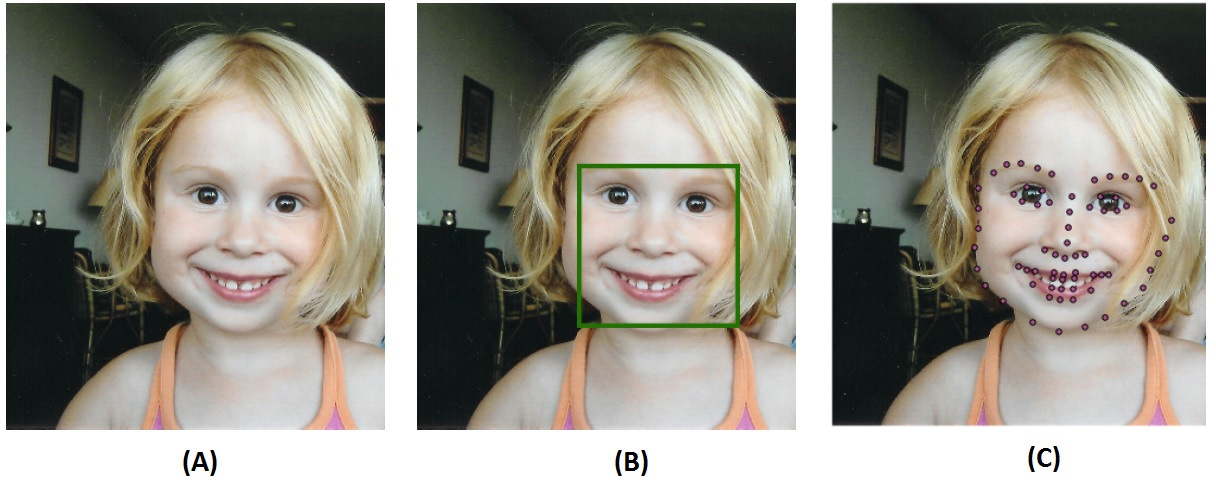
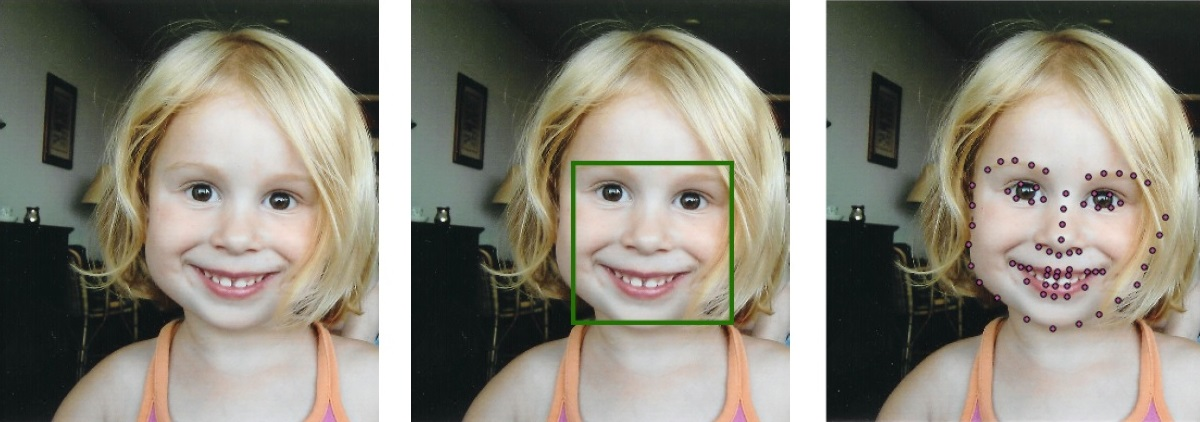
Refine and tweak text and figures in literature review

diff --git a/Content/texts/literature-games.tex b/Content/texts/literature-games.tex
@@ -3,24 +3,24 @@
 
 Research about games is a broad topic that involves different disciplines and definitions. In the context of this thesis, a game is defined as a system in which players engage in an artificial conflict, defined by rules, that results in a goal \parencite{salen2004rules}. An artificial conflict is a set of challenges that the player must overcome towards the game goal, e.g. sort elements within a time constraint.
 
-\textcite{schell2014art} mentions that, from a game design perspective, the difficulty level of such challenges affects the emotional state of players, e.g. moments of boredom or anxiety/stress. Every time a reward is given to the player, which usually is a tool to increase the player's power, the game's challenge level is lowered because the player becomes more skilled. After a period, such increase in the player's skill level causes the game to be boring because the challenges are now easier to beat. At that point, the difficulty level is again increased by the game, raising the challenging levels for the player once more, causing anxiety. The anxiety and stress period lasts until the player is rewarded again, when the newly obtained power will eventually lower the challenge levels again (resulting in boredom), causing the cycle to repeat itself.
-
-\textcite{chen2007flow} used the theory of flow or the ``theory of optimal experience'', originally estaslished by \textcite{csikszentmihalyi1991flow}, to describe how player experience was in large part depending on the relationship between a game's challenge and its player's level of skill. A challenge beyond the player's skill to address and overcome it causes anxiety, while the opposite results in disinterest, leading to boredom \parencite{chen2007flow}. An ideal challenge/skill balance in a repeating cycle of increasing challenge followed by a reward keeps the player in an optimal experience and concentration, i.e. flow zone, as illustrated by Figure \ref{fig:flow-schell}.
-
 \begin{figure}[h!]
     \centering
     \includegraphics[scale=0.8]{Content/figures/flow-schell.png}
-    \caption{Repeating cycle of increasing challenge followed by a reward, keeping the player in the flow zone. \parencite{schell2014art}}
+    \caption{Repeating cycle of increasing challenge followed by a reward, keeping the player in the flow zone. Reproduced from \textcite{schell2014art}.}
     \label{fig:flow-schell}
 \end{figure}
 
- The following sections describe in more detail the theoretical foundation of emotions, connecting them to the context of games.
+\textcite{schell2014art} mentions that, from a game design perspective, the difficulty level of such challenges affects the emotional state of players, e.g. moments of boredom or anxiety/stress. Every time a reward is given to the player, which usually is a tool to increase the player's power, the game's challenge level is lowered because the player becomes more skilled. After a period, such increase in the player's skill level causes the game to be boring because the challenges are now easier to beat. At that point, the difficulty level is again increased by the game, raising the challenging levels for the player once more, causing anxiety. The anxiety and stress period lasts until the player is rewarded again, when the newly obtained power will eventually lower the challenge levels again (resulting in boredom), causing the cycle to repeat itself.
+
+\textcite{chen2007flow} used the theory of flow or the ``theory of optimal experience'', originally established by Mihaly Csikszentmihalyi, to describe how player experience was in large part depending on the relationship between a game's challenge and its player's level of skill. A challenge beyond the player's skill to address and overcome it causes anxiety, while the opposite results in disinterest, leading to boredom \parencite{chen2007flow}. An ideal challenge/skill balance in a repeating cycle of increasing challenge followed by a reward keeps the player in an optimal experience and concentration, i.e. flow zone, as illustrated by Figure \ref{fig:flow-schell}.
+
+The following sections describe in more detail the theoretical foundation of emotions, connecting them to the context of games.
 
 %%%%%%%%%%%%%%%%%%%%%%%%%%%%%%%%%%%%%%%%%%%%%%%%%%%%%%%%%%%%%%%%%%%%%%%%%%%%%%%%%%%%%%%%%%%%%%%%%%%%%%%
 \section{Emotions theory}
 %%%%%%%%%%%%%%%%%%%%%%%%%%%%%%%%%%%%%%%%%%%%%%%%%%%%%%%%%%%%%%%%%%%%%%%%%%%%%%%%%%%%%%%%%%%%%%%%%%%%%%%
 
-In the field of games research, one of the most mentioned theories regarding emotions is the theory of flow. It has been used as the foundation for several concepts, including engagement and immersion \parencite{brown2004grounded}, sense of presence \parencite{weibel2011immersion} and applicability in game design \parencite{sweetser2005gameflow, chen2007flow, cruz2017player}. Flow was originally defined as a phenonmenon in which a person experiences a subjective state characterized by an instense level of attention during the execution of an intrinsically motivated activity \parencite{csikszentmihalyi1991flow}. As previously mentioned, an ideal challenge/skill balance in a game leads players to an optimal experience and concentration state (e.g. flow), so flow constructs are of interest to the games community. Such peculiar state of flow, however, is not limited to activities involving games, it can be experienced in a variety of other activities, e.g. dancing and climbing. The connection of the theory of flow to contexts other than games is outside the scope of this thesis.
+In the field of games research, one of the most mentioned theories regarding emotions is the theory of flow. It has been used as the foundation for several concepts, including engagement and immersion \parencite{brown2004grounded}, sense of presence \parencite{weibel2011immersion} and applicability in game design \parencite{sweetser2005gameflow, chen2007flow, cruz2017player}. Flow was originally defined as a phenomenon in which a person experiences a subjective state characterized by an intense level of attention during the execution of an intrinsically motivated activity \parencite{nakamura2014concept}. As previously mentioned, an ideal challenge/skill balance in a game leads players to an optimal experience and concentration state (e.g. flow), so flow constructs are of interest to the games community. Such peculiar state of flow, however, is not limited to activities involving games, it can be experienced in a variety of other activities, e.g. dancing and climbing. The connection of the theory of flow to contexts other than games is outside the scope of this thesis.
 
 Further research \parencite{nakamura2014concept} refined the original definition of the flow state, culminating in the eight channel model of flow, illustrated in Figure \ref{fig:flow-eight}. Such model better describes the emotional state of users according to the challenge/skill balance in relation to the subject mean, since it is less coarse than the original flow model. In the eight channel model of flow, for instance, a person performing a low skill and low challenging task experiences apathy, while in the original model the classification would indicate a flow state. Emotional states as stress and boredom can be described as a function of the current player's skill level and the level of challenge he/she is facing.
 
@@ -31,12 +31,12 @@ Further research \parencite{nakamura2014concept} refined the original definition
     \label{fig:flow-eight}
 \end{figure}
 
-Another model commonly mentioned in the literature are the basic emotions proposed by \textcite{ekman1971constants}. Constructed from an experiment involving cultural differencies, it states that particular facial muscular patterns and discrete emotions are universal. The six emotions mentioned in the theory are happiness, surprise, sadness, fear, anger and disgust, which are strictly basic emotion models of affective state. A contrary definition is presented by \textcite{russell1978evidence}, who defined another model of emotions named Circumplex Model of Affect (CMA). Commonly referred to as Russell's Arousal-Valence (AV) space, the model is contrary to strictly basic emotion models of affective state, where each emotion emerge from independent neural systems \parencite{posner2005circumplex}. The model proposes a dimensional approach where all affective states arise from the activation of two fundamental neurophysiological systems: arousal (or alertness) and valence (a pleasure–displeasure continuum).
+Another model commonly mentioned in the literature are the basic emotions proposed by \textcite{ekman1971constants}. Constructed from an experiment involving cultural differences, it states that particular facial muscular patterns and discrete emotions are universal. The six emotions mentioned in the theory are happiness, surprise, sadness, fear, anger and disgust, which are strictly basic emotion models of affective state. A contrary definition is presented by \textcite{russell1978evidence}, who defined another model of emotions named Circumplex Model of Affect (CMA). Commonly referred to as Russell's Arousal-Valence (AV) space, the model is contrary to strictly basic emotion models of affective state, where each emotion emerge from independent neural systems \parencite{posner2005circumplex}. The model proposes a dimensional approach where all affective states arise from the activation of two fundamental neurophysiological systems: arousal (or alertness) and valence (a pleasure–displeasure continuum).
 
 \begin{figure}[h!]
     \centering
     \includegraphics[scale=0.5]{Content/figures/russell-av.png}
-    \caption{Representation of the circumplex model of affect \parencite{posner2005circumplex}. Horizontal axis represents the valence dimension and the vertical axis represents the arousal or activation dimension.}
+    \caption{Representation of the Circumplex Model of Affect by \textcite{posner2005circumplex}. Horizontal axis represents the valence dimension and the vertical axis represents the arousal or activation dimension.}
     \label{fig:av-model}
 \end{figure}
 
@@ -49,7 +49,7 @@ Figure \ref{fig:av-model} illustrates the AV space. The horizontal axis represen
 As previously mentioned, the theory of flow is significantly used to explain emotional states and concepts in the field of games research. The definition of flow, however, requires a more sophisticated interpretation, as investigated by further research. %As previously mentioned, from a game design perspective, for instance, Schell \parencite{schell2014art} mentions that a progression of the player in the flow zone is desired, however it should not be a ``straight line'', but more of a cycle alternating among emotional states as stress, enjoyment and boredom.
 Different elements are also connected to flow, such as engagement, immersion and sense of presence.
 
-Immersion, in the concept defined by \textcite{brown2004grounded}, refers to the degree of involvement of players with a computer game. In that light, the authors theorize that a player overcomes barriers that limit his/her degree of involvement in immersion. After each barrier is broken, the sense of immersion deepens. The first barrier, for instance, is named engagement and it refers to the player willingness to invest attention and energy to learn how to play the game. The concept of flow, as defined by \textcite{csikszentmihalyi1991flow}, is an extreme state, which is only achieved when the player has overcame all previously mentioned barriers and is in a ``total immersion'' state. Such condition is rare to happen since it requires the highest level of attention from the player. As a consequence, engagement is more plausible and common during gaming experiences than flow.
+Immersion, in the concept defined by \textcite{brown2004grounded}, refers to the degree of involvement of players with a computer game. In that light, the authors theorize that a player overcomes barriers that limit his/her degree of involvement in immersion. After each barrier is broken, the sense of immersion deepens. The first barrier, for instance, is named engagement and it refers to the player willingness to invest attention and energy to learn how to play the game. The concept of flow, as defined by \textcite{nakamura2014concept}, is an extreme state, which is only achieved when the player has overcame all previously mentioned barriers and is in a ``total immersion'' state. Such condition is rare to happen since it requires the highest level of attention from the player. As a consequence, engagement is more plausible and common during gaming experiences than flow.
 
 The existence of several works \parencite{boyle2012engagement} related to understanding and defining what engagement and immersion are demonstrates the interest of researchers to broaden the view beyond flow alone. Presence, for instance, which describes the player's feeling of actually being in the game, is reported as an important aspect of engagement and immersion \parencite{weibel2011immersion}. Studies connected to training simulation \parencite{engstrom2016impact}, for instance, also indicate that contextualization (increasing the sense of presence) might affect immersion positively. Additionally to the intentions of understanding and defining engagement and immersion, studies also try to measure them. The majority of the approaches used for that are based on questionnaires, which are by nature subjectively answered by players. Additionally that approach usually breaks any sense of presence of the player since it requires a shift in attention away from the game, hence breaking or affecting the level of engagement/immersion as well.
 
@@ -63,22 +63,22 @@ Quantitative approaches have also been investigated to measure engagement, such 
 
 Questionnaires are a common tool used for the assessment of emotional states of users during experiments involving games and emotions. Different formats of questionnaires are found in the literature. The simplest approach are ad-hoc questionnaires, which contains a set of questions designed by the researcher for a particular experiment. A common type of emotion scale in such approach are Likert scales related to an emotional state, e.g. stress level.
 
-Another instrument for assessment of emotions is the Self-Assessment Manikin (SAM) \parencite{morris1995observations}, which is an efficient cross-cultural measurement of emotional response regarding pleasure, arousal and dominance. Figure \ref{fig:sam} illustrates the SAM mechanism. SAM employes a nonverbal, graphic depiction of three affective dimensions. In the top row of the questionnaire the user can express the level of pleasure, ranging from a figure with a smile to a figure with an unhappy face. The middle row presents figures ranging from an agitated (high arousal) state to a relaxed, sleepy state. Finally the bottom row represents the level of dominance (control) of the user in the situation at hand.
+Another instrument for assessment of emotions is the Self-Assessment Manikin (SAM) \parencite{morris1995observations}, which is an efficient cross-cultural measurement of emotional response regarding pleasure, arousal and dominance. Figure \ref{fig:sam} illustrates the SAM mechanism. SAM employs a nonverbal, graphic depiction of three affective dimensions. In the top row of the questionnaire the user can express the level of pleasure, ranging from a figure with a smile to a figure with an unhappy face. The middle row presents figures ranging from an agitated (high arousal) state to a relaxed, sleepy state. Finally the bottom row represents the level of dominance (control) of the user in the situation at hand.
 
 \begin{figure}[h]
     \centering
-    \includegraphics[width=0.7\textwidth]{Content/figures/SAM.png}
-    \caption{Self-Assessment Manikin (SAM). Reproduced from \textcite{morris1995observations}.}
+    \includegraphics[width=0.8\textwidth]{Content/figures/SAM.png}
+    \caption{Visual representation of the Self-Assessment Manikin. Reproduced from \textcite{morris1995observations}.}
     \label{fig:sam}
 \end{figure}
 
-A similar approach is the Affective Slider (AS) \parencite{betella2016affective}, a digital self-reporting tool composed of two slider controls for assessment of pleasure and arousal. Figure \ref{fig:as} illustrates the AS self-assessment mechanisms. AS also employes a nonverbal, graphic depiction of the emotional state of the user, however the focus is on arousal and valence. A user can adjust the sliders to show his/her level of arousal (top slider) and valence (bottom slider).
+A similar approach is the Affective Slider (AS) \parencite{betella2016affective}, a digital self-reporting tool composed of two slider controls for assessment of pleasure and arousal. Figure \ref{fig:as} illustrates the AS self-assessment mechanisms. AS also employs a nonverbal, graphic depiction of the emotional state of the user, however the focus is on arousal and valence. A user can adjust the sliders to show his/her level of arousal (top slider) and valence (bottom slider).
 
 \begin{figure}[h]
     \centering
     \includegraphics[width=0.7\textwidth]{Content/figures/AS.png}
-    \caption{Affective Slider (AS). Reproduced from \textcite{betella2016affective}.}
+    \caption{Visual representation of the Affective Slider. Reproduced from \textcite{betella2016affective}.}
     \label{fig:as}
 \end{figure}
 
-The selection of an emotion assessment instrument is connected to the research context. Both SAM and AS, for instance, are established and proven emotion measurement instruments, which would strengthen the theoretical foundations of the emotion measurement process. As a downside, however, they require the researcher to instruct users on how to properly answer the questionaire.
+The selection of an emotion assessment instrument is connected to the research context. Both SAM and AS, for instance, are established and proven emotion measurement instruments, which would strengthen the theoretical foundations of the emotion measurement process. As a downside, however, they require the researcher to instruct users on how to properly answer the questionnaire.

diff --git a/Content/texts/literature-face.tex b/Content/texts/literature-face.tex
@@ -10,7 +10,7 @@ While previous work explored the use of manual or automated facial analysis as a
 \textcite{giannakakis2017stress} present a literature review focused on facial elements with value for detection of anxiety and stress, including the involvement of eyes (pupil size variations, gaze distribution, blinking rate), mouth (lips deformation, mouth activity) and head (head movement and velocity). Table \ref{table:stress-facial-features} lists all identified facial elements.
 
 \begin{table}[h]
-\caption{Categorization of facial elements connected with stress and anxiety \parencite{giannakakis2017stress}}
+\caption{Categorization of facial elements connected with stress and anxiety according to \textcite{giannakakis2017stress}}
 \label{table:stress-facial-features}
 \begin{tabular}{lll}%
 \toprule%
@@ -18,7 +18,7 @@ While previous work explored the use of manual or automated facial analysis as a
 \midrule
 Head movement & Blink rate & Mouth shape \\
 Skin color & Eyelid response & Lip deformation  \\
-Heart rate (facial PPG) & Eye apperture & Lip corner puller \\
+Heart rate (facial PPG) & Eye aperture & Lip corner puller \\
 & Eyebrow movements & Lip corner depressor \\
 & & Lip pressor \\
 \midrule
@@ -31,9 +31,9 @@ Gaze direction & &\\
 \end{tabular}%
 \end{table}
 
-There are indications that blinking increases with emotional arousal, including stress and anxiety levels \parencite{dinges2005optical}. Gaze direction, gaze congruency (agreement between eye and head orientation) and the size of the gaze-cuing effect (facilitation of reation time towards visual clues) are also influenced by the level of anxiety or stress \parencite{staab2014influence}. Similarly mouth activity is influenced by conditions of stress, particularly lip movement \parencite{dinges2005optical} and asymmetric lip deformation \parencite{metaxas2004image}. Finally the frequency of mouth openenings has been measured as inversely proportional to the stress level under high cognitive load \parencite{liao2005decision}.
+There are indications that blinking increases with emotional arousal, including stress and anxiety levels \parencite{dinges2005optical}. Gaze direction, gaze congruency (agreement between eye and head orientation) and the size of the gaze-cuing effect (facilitation of reaction time towards visual clues) are also influenced by the level of anxiety or stress \parencite{staab2014influence}. Similarly mouth activity is influenced by conditions of stress, particularly lip movement \parencite{dinges2005optical} and asymmetric lip deformation \parencite{metaxas2004image}. Finally the frequency of mouth openings has been measured as inversely proportional to the stress level under high cognitive load \parencite{liao2005decision}.
 
-Different approaches have been used to connect facial analysis to emotional states of users. Initiatives include manual or automated face detection, use of machine learning models to map facial features to emotions and so on. The following sections present in more detail works related to face detection, including the approch used for analysis and connection to emotional states.
+Different approaches have been used to connect facial analysis to emotional states of users. Initiatives include manual or automated face detection, use of machine learning models to map facial features to emotions and so on. The following sections present in more detail works related to face detection, including the approach used for analysis and connection to emotional states.
 
 %%%%%%%%%%%%%%%%%%%%%%%%%%%%%%%%%%%%%%%%%%%%%%%%%%%%%%%%%%%%%%%%%%%%%%%%%%%%%%%%%%%%%%%%%%%%%%%%%%%%%%%
 \section{Facial analysis based on sensors}
@@ -43,7 +43,7 @@ The analysis of facial behavior commonly relies on data obtained from physical s
 
 \begin{figure}
 \centering
-\includegraphics[width=1.0\textwidth]{Content/figures/face-muscles.jpg}
+\includegraphics[width=0.7\textwidth]{Content/figures/face-muscles.jpg}
 \caption{Facial muscles. (a) Corrugator supercilii. (b) Orbicularis oculi. (c) Zygomaticus minor. (d) Zygomaticus major. Adapted from ``Sobotta's Atlas and Text-book of Human Anatomy", by Dr. Johannes Sobotta (Illustration: K. Hajek and A. Schmitson), 1909. In the public domain \parencite{sobotta1909wikimedia}.}
 \label{fig:face-muscles}
 \end{figure}
@@ -63,7 +63,7 @@ Computer vision systems usually rely on image processing, artificial intelligenc
 \begin{figure}[h]
     \centering
     \includegraphics[width=\linewidth]{Content/figures/face_alignment.jpg}
-    \caption{Example of face alignment. (A) Input image. (B) Detected face. (C) Aligned face.}
+    \caption{Example of face alignment. From left to right: input image, detected face, and aligned face.}
     \label{fig:alignment}
 \end{figure}
 
@@ -73,32 +73,35 @@ Many methods have been proposed and a literature review shows that two basic app
 
 \subsection{Constrained Local Model}
 
-The Constrained Local Model (CLM) approach consists of locating a set of points on a target image, then applying a constrain to them. The constrain is usually based on a statistical shape model, which is obtained via training in a set of images featuring manually inserted landmarks. Since the shape model is statistical, the position of the points (landmarks) that it describes will always resemble a face, so proportions of lines and/or the distance among points will not be so different from a human face (at least not different from the ones found in the training set). Figure \ref{fig:clm-model-variation} illustrates the configuration of the shape model with different variations.
+The Constrained Local Model (CLM) approach consists of locating a set of points on a target image, then applying a constrain to them. The constrain is usually based on a statistical shape model, which is obtained via training in a set of images featuring manually inserted landmarks. Since the shape model is statistical, the position of the points (landmarks) that it describes will always resemble a face, so proportions of lines and/or the distance among points will not be so different from a human face (at least not different from the ones found in the training set). Figure \ref{fig:clm-models}(a) illustrates the configuration of the shape model with different variations.
 
 \begin{figure}[h]
-    \centering
-    \includegraphics[width=0.5\linewidth]{Content/figures/clm-model-variation.jpg}
-    \caption{Configuration of the shape models with different variations \parencite{yu2010facial}.}
+\centering
+  \begin{subfigure}[b]{0.5\textwidth}
+    \includegraphics[width=0.95\textwidth]{Content/figures/clm-model-variation.jpg}
+    \caption{}
     \label{fig:clm-model-variation}
+  \end{subfigure}%
+  \begin{subfigure}[b]{0.5\textwidth}
+    \centering
+    \includegraphics[width=0.95\textwidth]{Content/figures/clm-patches.jpg}
+    \caption{}
+    \label{fig:clm-patches}
+  \end{subfigure}
+  \caption{Shape models of CLM. (a) Configuration of the shape models with different variations. (b) Shape models and their respective entries in the texture model. Reproduced from \textcite{yu2010facial}.}
+  \label{fig:clm-models}
 \end{figure}
 
-Additionally to the shape model, there is a texture model that contains a set of patches (images) extracted from the training images by selecting the areas around the inserted landmarks. Those patches are used to guide the search procedure in the alignment process, which allows the technique to correctly identify the right model to properly align the face being analyzed. Figure \ref{fig:clm-patches} shows different shape models and their respective entries in the texture model.
+Additionally to the shape model, there is a texture model that contains a set of patches (images) extracted from the training images by selecting the areas around the inserted landmarks. Those patches are used to guide the search procedure in the alignment process, which allows the technique to correctly identify the right model to properly align the face being analyzed. Figure \ref{fig:clm-models}(b) shows different shape models and their respective entries in the texture model.
 
 The process of aligning a face is iterative and it starts by sampling points that are placed in the face image according to the current shape estimation of the face. In the first try, this estimation is usually the average face obtained from all training images. The area around the sampled points are extracted and used in a search to locate a set of similar patches in the texture model. The current shape estimation and the texture patches it locates are evaluated according to a cost function. As soon as the shape variation with the minimal cost is found, the process is repeated: new patches are sampled and searched against the texture model, the current estimation is adjusted and so on. Eventually the cost function will not produce a significantly different value from one iteration to another, which means the current estimation is the best match found.
-
-\begin{figure}[h]
-    \centering
-    \includegraphics[width=0.6\linewidth]{Content/figures/clm-patches.jpg}
-    \caption{Shape models and their respective entries in the texture model \parencite{yu2010facial}.}
-    \label{fig:clm-patches}
-\end{figure}
 
 Figure \ref{fig:clm-evolution} demonstrates the evolution of the technique as it iterates in an image. In Figure \ref{fig:clm-evolution}-(a), the mean shape is placed into the image and the patches are sampled around the (mistakenly) positioned landmarks. As the technique iterates ((b) and (c)), searched patches progressively induce changes in the current shape model, sampling more accurate patches. Eventually the technique converges to the aligned face, presented in Figure \ref{fig:clm-evolution}-(d).
 
 \begin{figure}[h]
     \centering
     \includegraphics[width=\linewidth]{Content/figures/clm-evolution.jpg}
-    \caption{Iteration of CLM during the alignment of an image \parencite{cristinacce2006feature}.}
+    \caption{Iteration of CLM during the alignment of an image. Reproduced from \textcite{cristinacce2006feature}.}
     \label{fig:clm-evolution}
 \end{figure}
 
@@ -113,14 +116,14 @@ The shape-indexed features are differences in pixel intensities. The calculation
 \begin{figure}[h]
     \centering
     \includegraphics[width=0.5\linewidth]{Content/figures/shape-indexed.png}
-    \caption{Pixels used in the calculation of a shape-indexed feature \parencite{maris2015}.}
+    \caption{Pixels used in the calculation of a shape-indexed feature. Reproduced from \textcite{maris2015}.}
     \label{fig:shape-indexed}
 \end{figure}
 
 \begin{figure}[h]
     \centering
     \includegraphics[width=1.0\linewidth]{Content/figures/cascade-explanation.png}
-    \caption{Estimation of face shape with regressors in a set of stages \parencite{maris2015}.}
+    \caption{Estimation of face shape with regressors in a set of stages. Reproduced from \textcite{maris2015}.}
     \label{fig:regressor-steps}
 \end{figure}
 
@@ -132,13 +135,13 @@ Different variations are used to handle the training, the extraction of features
 \label{ch:literature-face-emotion-detection}
 %%%%%%%%%%%%%%%%%%%%%%%%%%%%%%%%%%%%%%%%%%%%%%%%%%%%%%%%%%%%%%%%%%%%%%%%%%%%%%%%%%%%%%%%%%%%%%%%%%%%%%%
 
-Facial-based emotion detection techniques try to estimate the emotional state of a subject based on the analysis of facial features. Works involving such approach commonly focus on detecting or classifing emotional states based on the six basic emotions proposed by \textcite{ekman1971constants}, i.e. happiness, surprise, sadness, fear, anger and disgust. Some visual methods rely on manual or automated FACS-based analysis as a standard for categorization and measuring of emotional expressions \parencite{bartlett1999measuring}.
+Facial-based emotion detection techniques try to estimate the emotional state of a subject based on the analysis of facial features. Works involving such approach commonly focus on detecting or classifying emotional states based on the six basic emotions proposed by \textcite{ekman1971constants}, i.e. happiness, surprise, sadness, fear, anger and disgust. Some visual methods rely on manual or automated FACS-based analysis as a standard for categorization and measuring of emotional expressions \parencite{bartlett1999measuring}.
 
 The feasibility of that approach is demonstrated by \textcite{kaiser1994multi}, showing that more AU were reported by manual FACS coders during the analysis of video recordings of subjects playing the stressful part of a game when compared to its neutral part. Additionally authors report lip pull corner and inner/outer brow raise as more frequent AUs during gaming sessions. \textcite{wehrle2000emotion} also support the approach using an automated, FACS-based facial analysis aggregated with data from game events to provide an appraisal analysis of subjects emotional state.
 
 \begin{figure}[h]
     \centering
-    \includegraphics[width=1.0\linewidth]{Content/figures/samara2016sensing-distances.png}
+    \includegraphics[width=0.7\linewidth]{Content/figures/samara2016sensing-distances.png}
     \caption{Distance-based facial feature descriptors. Left: detected facial landmarks. Right: highlight of the distance among facial landmarks. Reproduced from \textcite{samara2016sensing}.}
     \label{fig:distance-samara}
 \end{figure}

diff --git a/Content/texts/literature-physiological.tex b/Content/texts/literature-physiological.tex
@@ -1,7 +1,7 @@
 \chapter{Emotions and physiological signals}
 \label{ch:literature-physiological}
 
-The empowerment of computers with the understanding of emotions is one of the focus of human-computer interaction research. The use of physiological signals of users in the process of detecting emotions envolves the different input signals, such as eletrocardiogram data, skin temperature and electrodermal activity, among others. A significant number of works explore such inputs and the challanges associated with them on emotion recognition using physiological signals \parencite{jerritta2011physiological}.
+The empowerment of computers with the understanding of emotions is one of the focus of human-computer interaction research. The use of physiological signals of users in the process of detecting emotions involves the different input signals, such as electrocardiogram data, skin temperature and electro-dermal activity, among others. A significant number of works explore such inputs and the challenges associated with them on emotion recognition using physiological signals \parencite{jerritta2011physiological}.
 
 % TODO: add Thesis - AIZoubi, page 62 (paper) or 79 (digital PDF indicator).
 % TODO: add table info from Thesis - AIZoubi, page 45 (paper) or 62 (digital PDF indicator).
@@ -31,9 +31,9 @@ The empowerment of computers with the understanding of emotions is one of the fo
 \end{tabular}%
 \end{table}
 
-One of the reasons why physiological signals are interesting for emotion recongnition is because supressing emotions or social masking through physiological signals is impossible \parencite{kim2004emotion}. In the games research field, there have been studies aiming at using such theory and psychophysiological methods applied to game research \parencite{kivikangas2011review}. It has been demonstrated that it is possible to use physiological signals to automatically assess different emotional states in the context of games using a variety of signals \parencite{bousefsaf2013remote,yun2009game,rani2006empirical,tijs2008dynamic}.
+One of the reasons why physiological signals are interesting for emotion recognition is because suppressing emotions or social masking through physiological signals is impossible \parencite{kim2004emotion}. In the games research field, there have been studies aiming at using such theory and psychophysiological methods applied to game research \parencite{kivikangas2011review}. It has been demonstrated that it is possible to use physiological signals to automatically assess different emotional states in the context of games using a variety of signals \parencite{bousefsaf2013remote,yun2009game,rani2006empirical,tijs2008dynamic}.
 
-Different approaches exists for emotion elicitation stimuli, feature extration and classification methodologies regarding emotion recognition. Table \ref{table:physiological-signals} presents the most common psychophysiological measurements used in human interaction studies. The aim of this thesis is to remotely obtain physiological information from users to detect emotional states. As a consequence, the input signals presented in Table \ref{table:physiological-signals} were researched and filtered based on the existence of techniques that are able to remotely measure them. HR was identified as a reliable physiological signal regarding emotion detection which can be remotely estimated via video of subjects. HR has been used to measure emotional states \parencite{kivikangas2011review}, including the detection of emotions as stress \parencite{choi2009using} and boredom \parencite{yamakoshi2007preliminary}. Additionally computer games were proven to provoke alteration in the mean HR of players at stressful periods of gameplay \parencite{sharma2006assessment,rodriguez2015vr}.
+Different approaches exists for emotion elicitation stimuli, feature extraction and classification methodologies regarding emotion recognition. Table \ref{table:physiological-signals} presents the most common psychophysiological measurements used in human interaction studies. The aim of this thesis is to remotely obtain physiological information from users to detect emotional states. As a consequence, the input signals presented in Table \ref{table:physiological-signals} were researched and filtered based on the existence of techniques that are able to remotely measure them. HR was identified as a reliable physiological signal regarding emotion detection which can be remotely estimated via video of subjects. HR has been used to measure emotional states \parencite{kivikangas2011review}, including the detection of emotions as stress \parencite{choi2009using} and boredom \parencite{yamakoshi2007preliminary}. Additionally computer games were proven to provoke alteration in the mean HR of players at stressful periods of gameplay \parencite{sharma2006assessment,rodriguez2015vr}.
 
 The following sections present more details regarding the physiology of HR and its use in emotion detection.
 
@@ -55,9 +55,9 @@ The cardiac cycle is periodic and it contains a set of waves that reflect depola
     \label{fig:rr-interval}
 \end{figure}
 
-The tracing of the QRS complex allows the monitoring of the heart rate. The peak of the R wave, refered to as R peak, marks an specific time in the cardiac cycle. The difference between two R wave peaks is the RR interval, also known as inter-beat interval (IBI). The RR interval reflects the entire duration of each heart beat. As a consequence, the amount of R waves within one minute is used to calculate the HR. The variations in time between R peaks, which is the beat-to-beat variability of HR, is refered to as heart rate variability (HRV).
+The tracing of the QRS complex allows the monitoring of the heart rate. The peak of the R wave, referred to as R peak, marks an specific time in the cardiac cycle. The difference between two R wave peaks is the RR interval, also known as inter-beat interval (IBI). The RR interval reflects the entire duration of each heart beat. As a consequence, the amount of R waves within one minute is used to calculate the HR. The variations in time between R peaks, which is the beat-to-beat variability of HR, is referred to as heart rate variability (HRV).
 
-The HR is connected to the central nervous system and it can be influenced by a series of different elements, including modifiable and non-modifiable ones \parencite{valentini2009variables}. Modifiables elements are those related to external influence, such as mental stress or physical activity. Non-modifiable elements are related to physiology, such as age, gender and race. A healthy human adult has a HR within the interval of [45 bpm, 240 bpm], the equivalent of [0.75 Hz, 4 Hz] \parencite{li2014remote}.
+The HR is connected to the central nervous system and it can be influenced by a series of different elements, including modifiable and non-modifiable ones \parencite{valentini2009variables}. Modifiable elements are those related to external influence, such as mental stress or physical activity. Non-modifiable elements are related to physiology, such as age, gender and race. A healthy human adult has a HR within the interval of [45 bpm, 240 bpm], the equivalent of [0.75 Hz, 4 Hz] \parencite{li2014remote}.
 
 % A healthy human adult has a HR between 45 - 240 bpm (0.75 - 4 Hz) [1]. There are many factors influencing the HR of a person, both modifiable (e.g. physical activity, mental stress, smoking) and non-modifiable (e.g. age, gender) [12]. The HR can change rapidly from activities such as postural changes [13] and also from uncontrolled events such as cardiac arrhythmia and sudden cardiac arrest [14, 15].
 

diff --git a/Content/texts/literature-rppg.tex b/Content/texts/literature-rppg.tex
@@ -103,15 +103,13 @@ The frequency resolution $\Delta f$ influences the error rate in the estimation 
 
 The value for $F_s$ is usually dependent on the camera device being used, which follows certain standards, e.g. 30 FPS. As a consequence, $\Delta f$ can be altered by changes on the window size $N$. Such changes, however, directly impact the estimations, since there is a trade-off between the window size and the estimation error. The higher the window size, the longer the video segment required for the estimation. Longer video segments are likely to contain movement of the subject being analyzed, which adds noise to the rPPG estimation.
 
-\textcite{roald2013estimation} presents this trade-off by detailing the frequency resolution as a function of window size and video frame rate, as demonstrated in Table \ref{table:frequency-resolution}.
-
 \begin{table}[h!]
 \caption{Frequency resolution $\Delta f$ (in Hz) as a function of window size (in samples) and frame rate (in FPS) \parencite{roald2013estimation}.}
 \label{table:frequency-resolution}
 \centering
 \begin{tabular}{ccccccc}%
 \toprule%
-Window size & 10 FPS & 15 FPS & 25 FPS & 30 FPS & 50 FPS & 60 FPS \\
+\textbf{Window size} & \textbf{10 FPS} & \textbf{15 FPS} & \textbf{25 FPS} & \textbf{30 FPS} & \textbf{50 FPS} & \textbf{60 FPS} \\
 \midrule
 100 & 0.1 & 0.15 & 0.25 & 0.3 & 0.5 & 0.6 \\
 200 & 0.05 & 0.075 & 0.125 & 0.15 & 0.25 & 0.3 \\
@@ -125,4 +123,4 @@ Window size & 10 FPS & 15 FPS & 25 FPS & 30 FPS & 50 FPS & 60 FPS \\
 \end{tabular}%
 \end{table}
 
-As an example, assuming a video of 50 FPS and a frequency resolution of 0.07 Hz (which corresponds to an estimation error of $\pm 2.1$ bpm), a window size of 700 samples is required (equivalent of a video segment of 14 seconds). Additionally it has been proven that limitations in the sampling frequency, e.g. low $F_s$, can be compensated in the PPG signal detection by the use of interpolation \parencite{sun2012noncontact}.
+\textcite{roald2013estimation} presents this trade-off by detailing the frequency resolution as a function of window size and video frame rate, as demonstrated in Table \ref{table:frequency-resolution}. As an example, assuming a video of 50 FPS and a frequency resolution of 0.07 Hz (which corresponds to an estimation error of $\pm 2.1$ bpm), a window size of 700 samples is required (equivalent of a video segment of 14 seconds). Additionally it has been proven that limitations in the sampling frequency, e.g. low $F_s$, can be compensated in the PPG signal detection by the use of interpolation \parencite{sun2012noncontact}.

diff --git a/Content/texts/literature-multifactorial.tex b/Content/texts/literature-multifactorial.tex
@@ -18,7 +18,7 @@ The first multifactorial analysis approaches were based on obtrusive measurement
 \begin{figure}
 \centering
 \includegraphics[width=0.9\linewidth]{Content/figures/zhou.png}
-\caption{Non-obtrusive and remote approach based on multifactorial analysis to identify user emotion \textcite{mental}.}
+\caption{Non-obtrusive and remote approach based on multifactorial analysis to identify user emotion. Reproduced from \textcite{mental}.}
 \label{fig:zhou}
 \end{figure}
 
@@ -30,8 +30,8 @@ The first multifactorial analysis approaches were based on obtrusive measurement
 
 \begin{figure}[h]
     \centering
-    \includegraphics[width=\linewidth]{Content/figures/giannakakis2017stress-eye.png}
-    \caption{Highlight of distance calculation regarding eye apperture \parencite{giannakakis2017stress}.}
+    \includegraphics[width=0.7\linewidth]{Content/figures/giannakakis2017stress-eye.png}
+    \caption{Highlight of distance calculation regarding eye aperture. Reproduced from \textcite{giannakakis2017stress}.}
     \label{fig:giannakakis2017stress-eye}
 \end{figure}
 
